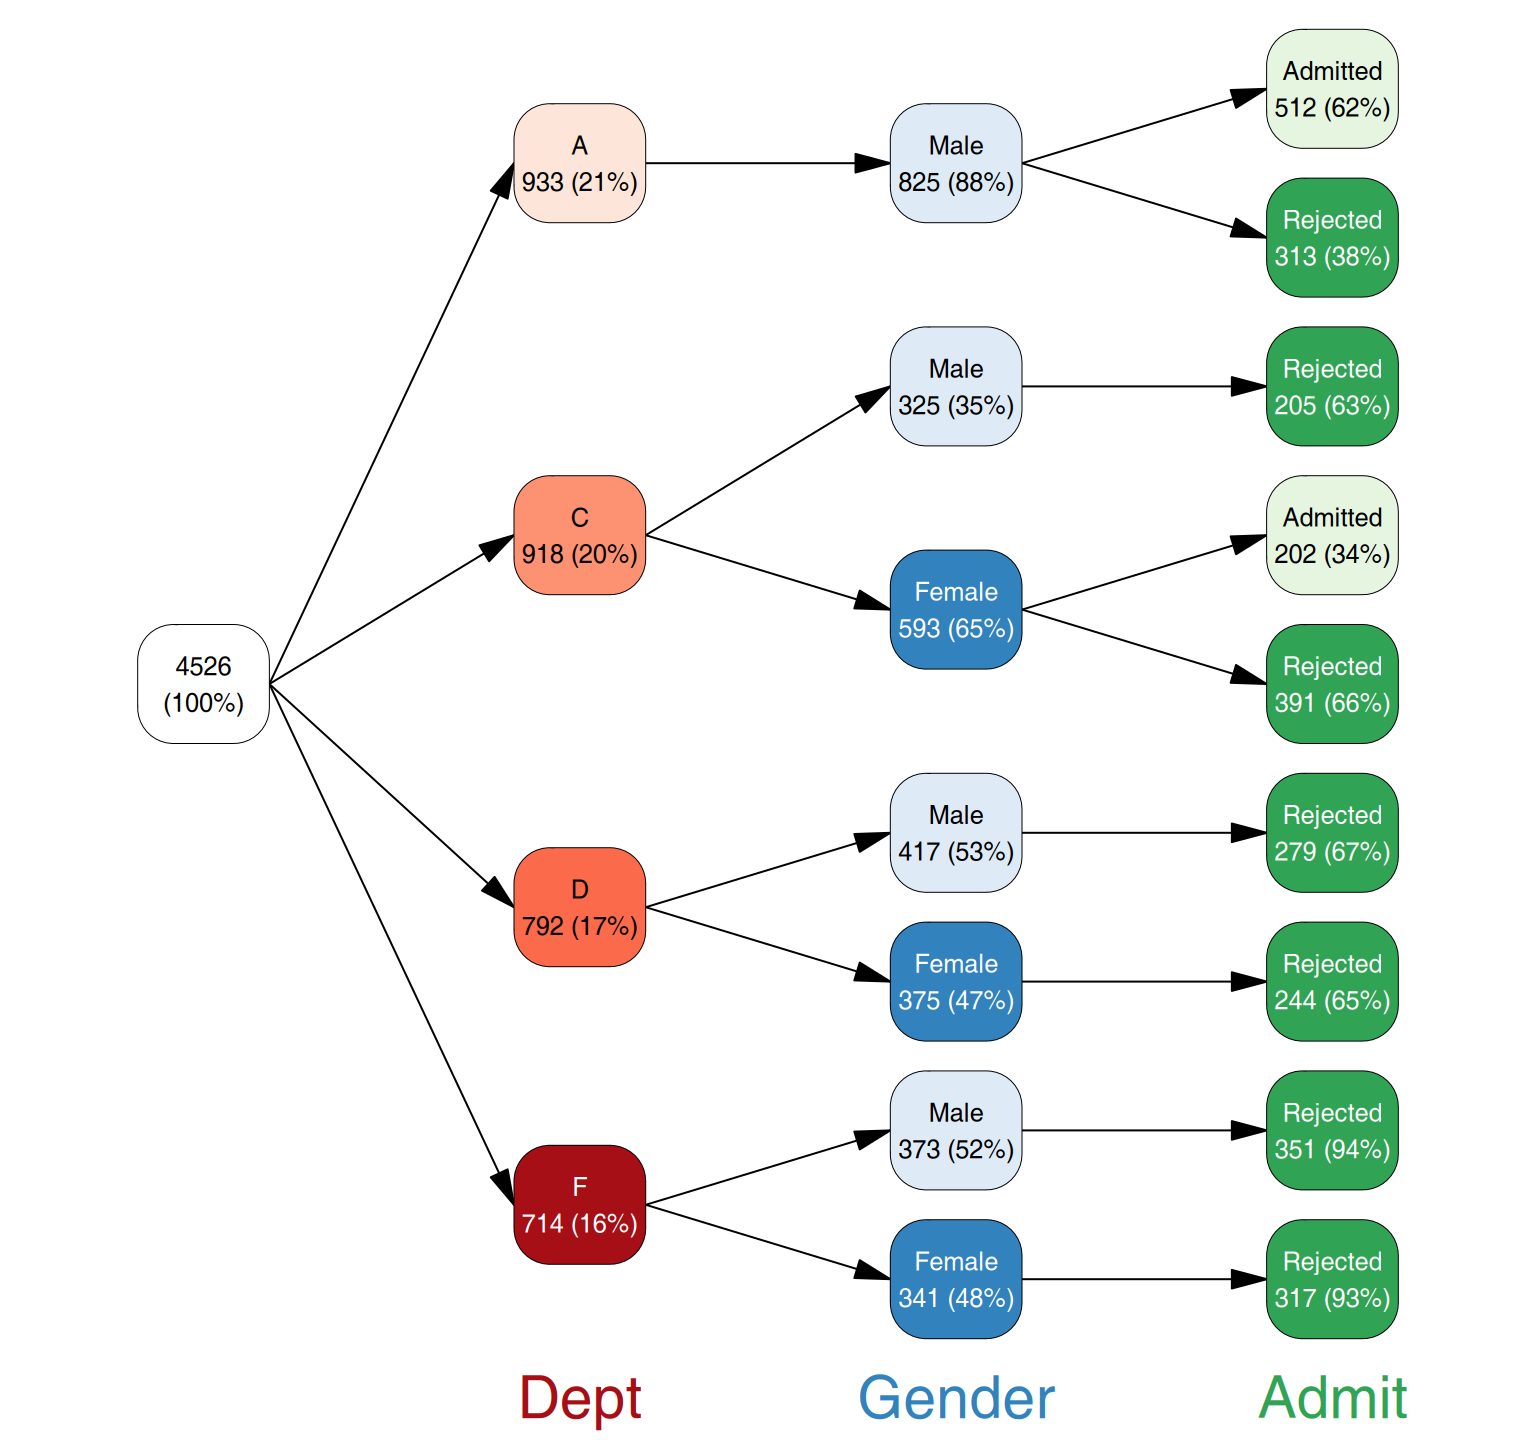
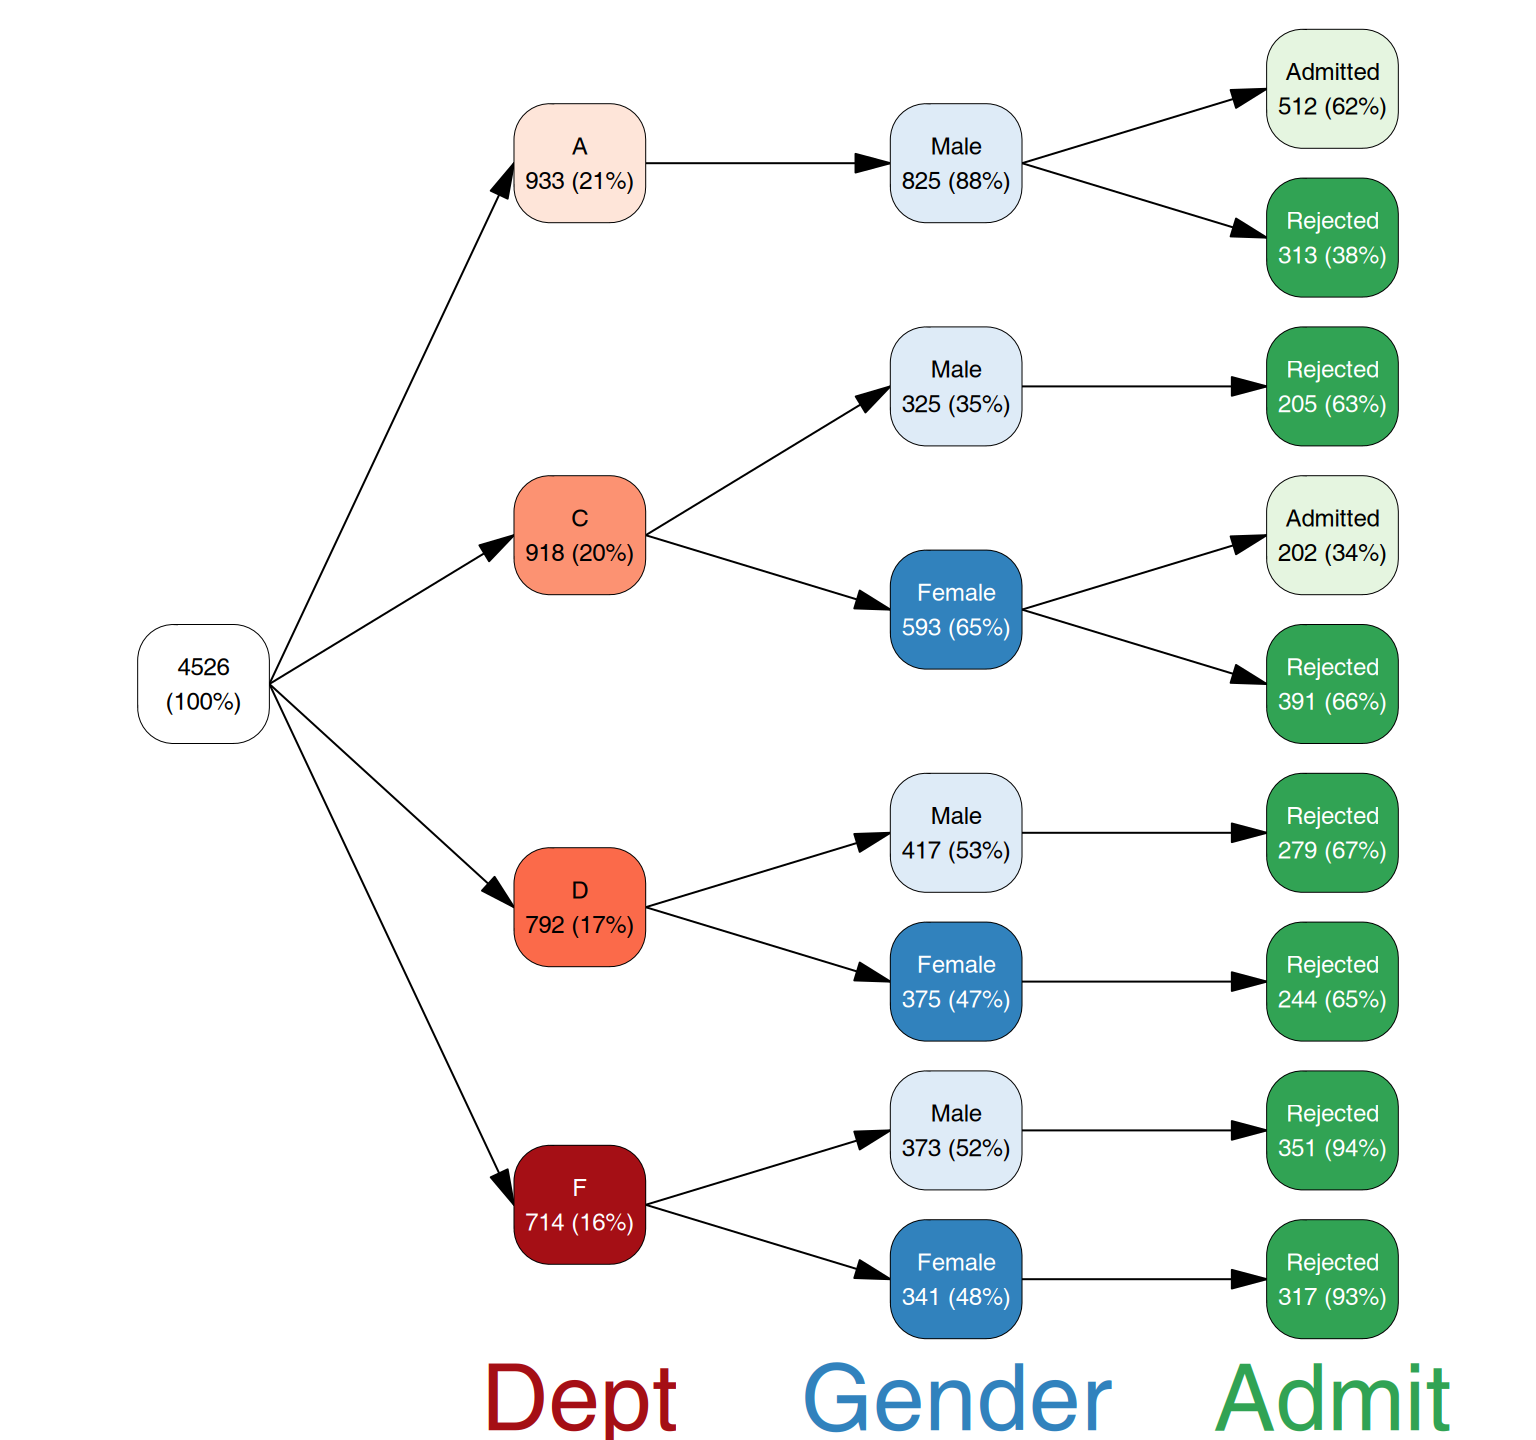
updated readme and vignettes

diff --git a/README.md b/README.md
@@ -197,6 +197,9 @@ Also, for code review / bug finding.
 
 ## BUGS
 
+- legend titles sometimes overlap with the legend
+- ~~if some variables disappear from the plot, the legend throws an
+  error~~
 - ~~prune(!Severity %in% c(“Mild”, “Moderate”), follow_only = TRUE) does
   not work~~
 - na.rm handling in prune() is not consistent, at least not with vtree’s
